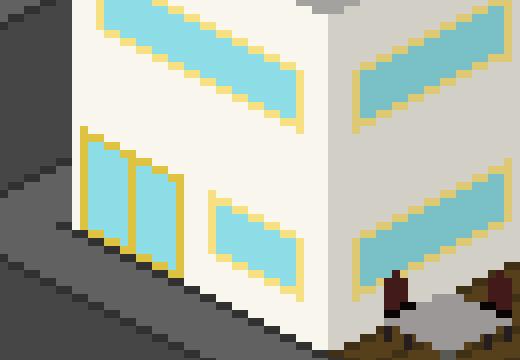
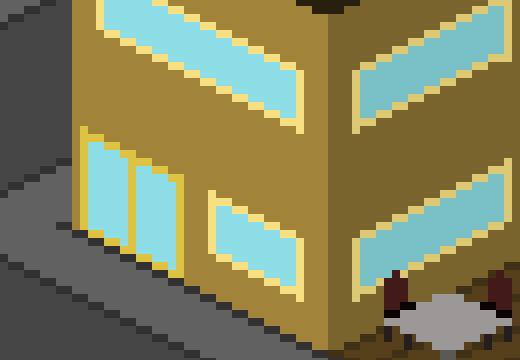
Feat: Imagens atualizadas

diff --git a/style.css b/style.css
@@ -139,7 +139,7 @@ header img {
 
 .banner {
     height: 500px;
-    background-image: linear-gradient(90deg, rgba(81,65,209,1) 0%, rgba(81,65,209,0.6) 100%), url(img/cidade-banner-naofinalizado.png);
+    background-image: linear-gradient(90deg, rgba(81,65,209,1) 0%, rgba(81,65,209,0.6) 100%), url(img/cidade-banner.png);
     background-position: 100% 0%;
     margin-bottom: 35px;
 }
